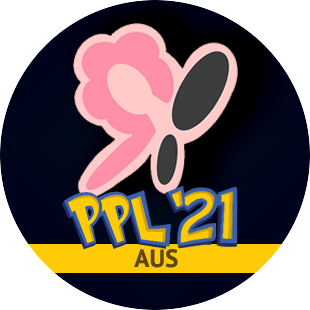
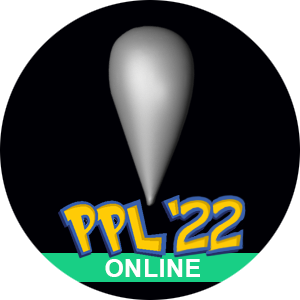
new leader data, images, and light refactoring.

diff --git a/src/app/challenger-detail/challenger-detail.component.css b/src/app/challenger-detail/challenger-detail.component.css
@@ -140,16 +140,16 @@ a, a:hover, a:visited {
 
 .casual {
   /* Online */
-  /* background-color: #51b5a2; */
+  background-color: #51b5a2;
   /* Aus */
-  background-color: #f8de54;
+  /* background-color: #f8de54; */
 }
 
 .casual-badges {
   /* Online */
-  /* background-color: #ef92ff; */
+  background-color: #ef92ff;
   /* Aus */
-  background-color: #fac983;
+  /* background-color: #fac983; */
 }
 
 .casual-badges * span.codehack {
@@ -219,16 +219,16 @@ a, a:hover, a:visited {
 
 .elite {
   /* Online */
-  /* background-color: #238355; */
+  background-color: #238355;
   /* Aus */
-  background-color: #74AE47;
+  /* background-color: #74AE47; */
 }
 
 .elites {
   /* Online */
-  /* background-color: #71ff77; */
+  background-color: #71ff77;
   /* Aus */
-  background-color: #cb755f;
+  /* background-color: #cb755f; */
 }
 
 .elites * span.codehack {
@@ -271,16 +271,16 @@ a, a:hover, a:visited {
 
 .champion {
   /* Online */
-  /* background-color: #003f50; */
+  background-color: #003f50;
   /* Aus */
-  background-color: #945668;
+  /* background-color: #945668; */
 }
 
 .champions {
   /* Online */
-  /* background-color: #33eb47; */
+  background-color: #33eb47;
   /* Aus */
-  background-color: #b07fb7;
+  /* background-color: #b07fb7; */
 }
 
 .champions * span.codehack {
@@ -333,7 +333,7 @@ a, a:hover, a:visited {
   margin-bottom: 2em;
   
   /* Aus */
-  background-color: #40322b;
+  /* background-color: #40322b; */
   color: #dddddd;
 }
 

diff --git a/src/app/challenger-detail/challenger-detail.component.html b/src/app/challenger-detail/challenger-detail.component.html
@@ -1,10 +1,10 @@
 <div *ngIf="challenger">
     <mat-card class="trainer-card">
-        <h2>{{challenger.name | uppercase }}'S TRAINER CARD</h2>
+        <h2>{{ challenger.name | uppercase }}'S TRAINER CARD</h2>
         <div class="casual-badges section">
             <div class="header">
                 <span class="codehack left">Gym Leaders</span>
-                <span class="blox right">Beat any 6 gym leaders to go on to the elite 6</span>
+                <span class="blox right">Beat any {{ gymBeat }} gym leaders to go on to the Elite {{ eliteCount }}</span>
             </div>
             <div class=leaders-container>
                 <div *ngFor="let leader of challenger.casualLeaders" [ngClass]="{'unearned': leader.badgeWon === 0}" class="casual leader-row">
@@ -25,8 +25,8 @@
         </div> -->
         <div class="elites section">
             <div class="header">
-                <span class="codehack left">Elite 4</span>
-                <span class="blox right">Beat any 3 elites to go on to the champion</span>
+                <span class="codehack left">Elite {{ eliteCount }}</span>
+                <span class="blox right">Beat any {{ eliteBeat }} elites to go on to the champion</span>
             </div>
             <div class=leaders-container>
                 <div *ngFor="let leader of challenger.elites" [ngClass]="{'unearned': leader.badgeWon === 0}" class="elite leader-row">

diff --git a/src/app/challenger-detail/challenger-detail.component.ts b/src/app/challenger-detail/challenger-detail.component.ts
@@ -1,11 +1,11 @@
 import { Component, OnInit, Input, ViewEncapsulation } from '@angular/core';
-import { Challenger } from '../challenger';
-import { Badge } from '../badge';
+import { Challenger } from '../model/challenger';
+import { Badge } from '../model/badge';
 import { ActivatedRoute } from '@angular/router';
 import { Location } from '@angular/common';
 
-import { ChallengerService } from '../challenger.service';
-import { HeaderService } from '../header.service';
+import { ChallengerService } from '../service/challenger.service';
+import { HeaderService } from '../service/header.service';
 
 import * as data from '../leaders.json';
 
@@ -20,6 +20,9 @@ import * as data from '../leaders.json';
 export class ChallengerDetailComponent implements OnInit {
 
   @Input() challenger: Challenger;
+  eliteCount: number;
+  eliteBeat: number;
+  gymBeat: number;
 
   constructor(
     private route: ActivatedRoute,
@@ -29,6 +32,9 @@ export class ChallengerDetailComponent implements OnInit {
   ) { }
 
   ngOnInit(): void {
+    this.eliteCount = 5;
+    this.eliteBeat = 4;
+    this.gymBeat = 8;
     if(!!this.route.snapshot.queryParams.id) {
       this.getChallenger();
     }

diff --git a/src/app/service/challenger.service.ts b/src/app/service/challenger.service.ts
@@ -1,12 +1,12 @@
 import { Injectable } from '@angular/core';
 import { Observable, of } from 'rxjs';
-import { Challenger } from './challenger';
-import { Badge } from './badge';
+import { Challenger } from '../model/challenger';
+import { Badge } from '../model/badge';
 import { MessageService } from './message.service';
 import { HttpClient, HttpHeaders } from '@angular/common/http';
 import { catchError, map, tap } from 'rxjs/operators';
 
-import * as data from './leaders.json';
+import * as data from '../leaders.json';
 
 
 @Injectable({

diff --git a/src/app/challengers/challengers.component.ts b/src/app/challengers/challengers.component.ts
@@ -1,9 +1,9 @@
 import { Component, OnInit } from '@angular/core';
 import { ActivatedRoute } from '@angular/router';
 
-import { Challenger } from '../challenger';
-import { ChallengerService } from '../challenger.service';
-import { HeaderService } from '../header.service';
+import { Challenger } from '../model/challenger';
+import { ChallengerService } from '../service/challenger.service';
+import { HeaderService } from '../service/header.service';
 
 @Component({
   selector: 'app-challengers',

diff --git a/src/app/challenger-search/challenger-search.component.ts b/src/app/challenger-search/challenger-search.component.ts
@@ -6,8 +6,8 @@ import {
    debounceTime, distinctUntilChanged, switchMap
  } from 'rxjs/operators';
 
-import { Challenger } from '../challenger';
-import { ChallengerService } from '../challenger.service';
+import { Challenger } from '../model/challenger';
+import { ChallengerService } from '../service/challenger.service';
 
 @Component({
   selector: 'app-challenger-search',

diff --git a/src/app/header/header.component.ts b/src/app/header/header.component.ts
@@ -2,7 +2,7 @@ import { Component, OnInit, Input, Inject } from '@angular/core';
 import { Router } from '@angular/router';
 import { Clipboard } from '@angular/cdk/clipboard';
 
-import { HeaderService } from '../header.service';
+import { HeaderService } from '../service/header.service';
 import { MatSnackBar } from '@angular/material/snack-bar';
 
 @Component({

diff --git a/src/app/messages/messages.component.ts b/src/app/messages/messages.component.ts
@@ -1,5 +1,5 @@
 import { Component, OnInit } from '@angular/core';
-import { MessageService } from '../message.service';
+import { MessageService } from '../service/message.service';
 
 @Component({
   selector: 'app-messages',

diff --git a/src/app/leader-row/leader-row.component.ts b/src/app/leader-row/leader-row.component.ts
@@ -1,5 +1,5 @@
 import { Component, OnInit, Input } from '@angular/core';
-import { Badge } from '../badge';
+import { Badge } from '../model/badge';
 
 @Component({
   selector: 'app-leader-row',
